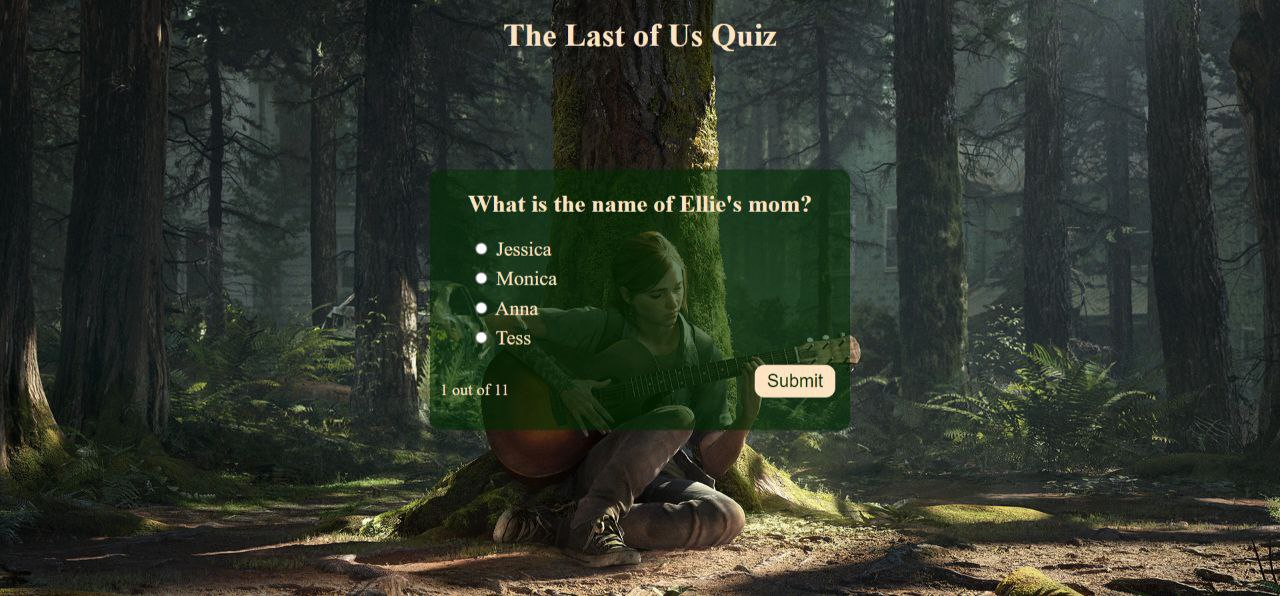
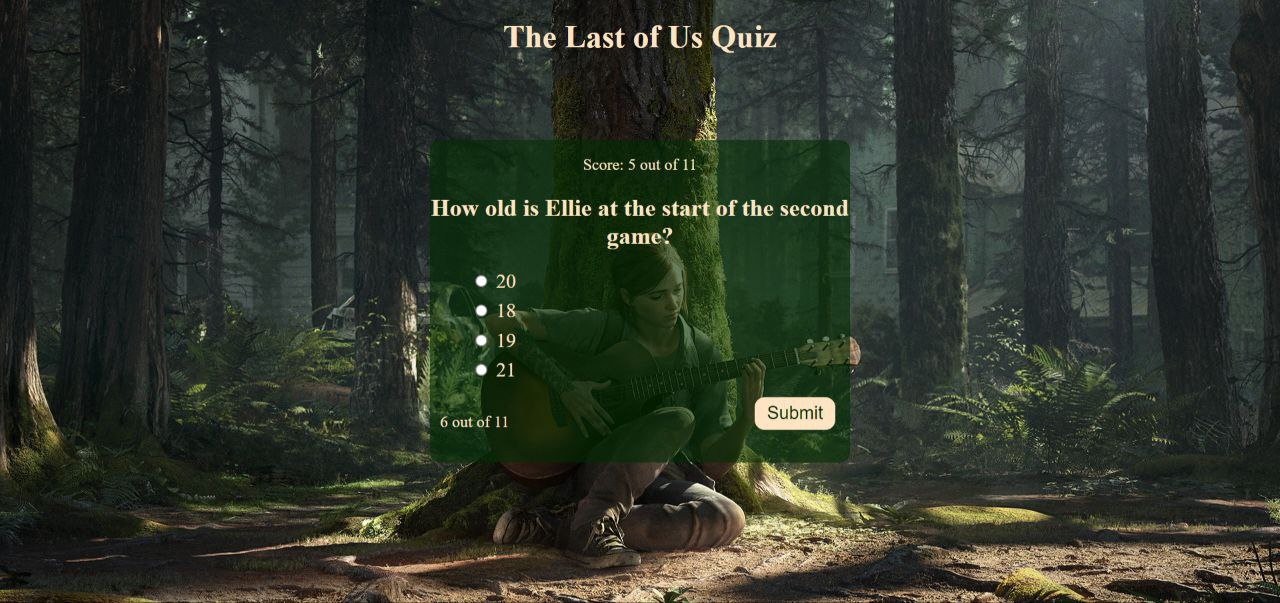
Update readme

diff --git a/assets/javascript/script.js b/assets/javascript/script.js
@@ -220,7 +220,7 @@ function showResult() {
         let userScoreTemplate = `<h2>This Round's Score: ${score}</h2>`;
 
         scoreDetail.map((items, index) => {
-            userScoreTemplate += `<h3>Score ${index}: ${items}</h3>`
+            userScoreTemplate += `<h3>Score ${index}: ${items}</h3>`;
         });
 
         let userScoreBoard = document.querySelector(".user-score");

diff --git a/README.md b/README.md
@@ -12,32 +12,50 @@ Cloned link of github repository - https://github.com/pozhara/The-Last-of-Us-Qui
 
 ## Start Quiz
 
-Includes a start quiz button to not throw people directly to the quiz.
+Includes a start quiz button and an explanation to not throw people directly to the quiz.
 
-![Start Quiz page](assets/images/startquiz.jpg)
+![Start Quiz page](assets/images/start.jpg)
 
 ## The quiz itself
-Includes questions, answers, submit button and progress indicator so people wouldn't guess how much more questions they have to answer.
+Includes questions, answers, submit button, progress indicator and score so people wouldn't guess how much more questions they have to answer and if they answered correctly.
 ![Image of the first question in the quiz](assets/images/question.jpg)
 
 ## Results
-Includes a message of people's performance, how many question they answered correctly, a button to play again that refreshes the page and a button to see correct answers.
+Includes a message of people's performance, how many question they answered correctly, a button to play again that refreshes the page and a button to access a scoreboard.
 ![Image of result page](assets/images/result.jpg)
 
-## Correct answers
-Includes correct answers and a button to play again that refreshes the page.
-![Image of correct answers page](assets/images/correctanswers.jpg)
+## Scoreboard
+Includes all scores, last round's score at the top and a button to play again that refreshes the page.
+![Image of correct answers page](assets/images/scoreboard.jpg)
 
 # Testing
 The site looks good on different screens. Image isn't distorted. Javascript code works as expected to make the quiz playable and responsive.
 
 -HTML: No errors were returned when passing through the official W3C validator
 
+![Image of HTML validator](assets/images/html-validator.png)
+
 -CSS: No errors were found when passing through the official (Jigsaw) validator
 
--JS: No significant errors were found when passing through a JavaScript validator
+![Image of CSS validator](assets/images/css-validator.png)
 
-![Image of errors](assets/images/errors.jpg)
+-JS: No errors were found when passing through a JavaScript validator
+
+![Image of JavaScript validator](assets/images/js-validator.png)
+
+## Manual tests
+
+I clicked on the start button and the first question was immediately loaded.
+
+I answered correctly and saw my score go up and progress indicator increase when I clicked for next question.
+
+I got the results I expected with the amount of correct answers I got.
+
+I clicked scoreboard button and saw all my previous attempts as well as the most recent score at the top. 
+
+I clicked play again button and the page refreshed to the page with start button and an explanation.
+
+I resized the page to check responsiveness and all elements were adjusted accordingly.
 
 # Deployment
 
@@ -75,3 +93,7 @@ Brian design (url:https://www.youtube.com/watch?v=f4fB9Xg2JEY&t=2423s)
 Keith Paterson (url:https://www.youtube.com/watch?v=79WRPIknVHs&t=2697s)
 
 The template way of writing a quiz in JavaScript was taken from Просто: разработка (url:https://www.youtube.com/watch?v=kl4lJ3-qt6k)
+
+A way of shuffling answers was taken from Stack Overflow (url: https://stackoverflow.com/questions/74492512/shuffled-answers-are-repeating-in-a-quiz/74493507#74493507)
+
+To understand how local storage works I've watched Max Programming's video (url: https://www.youtube.com/watch?v=U693xrQKFy4)
